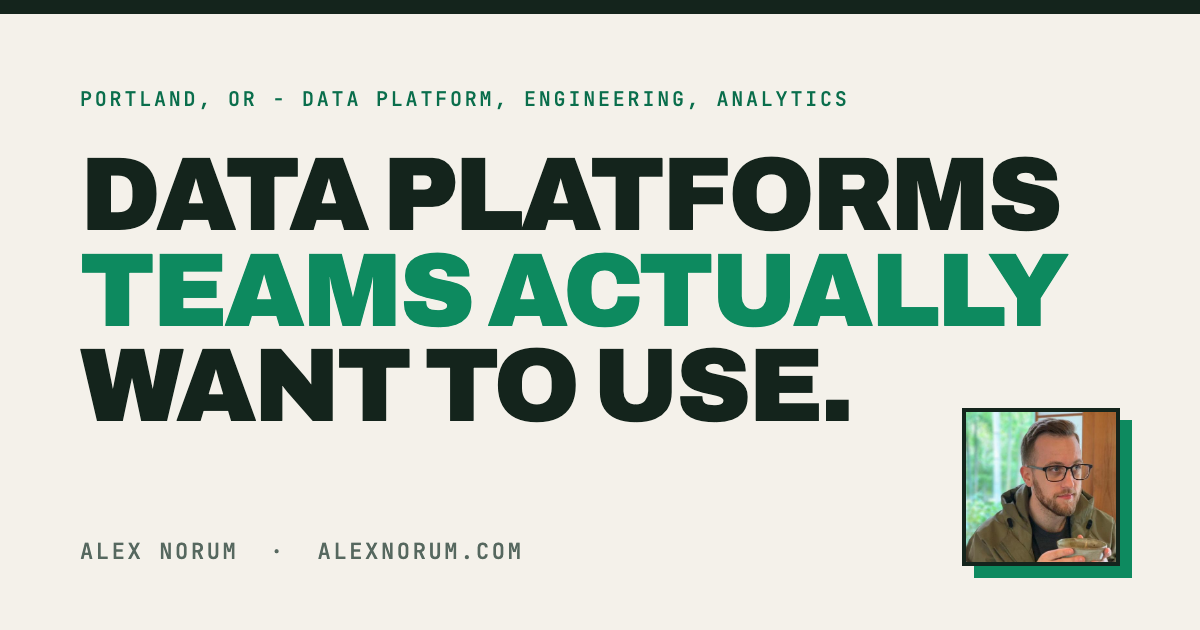
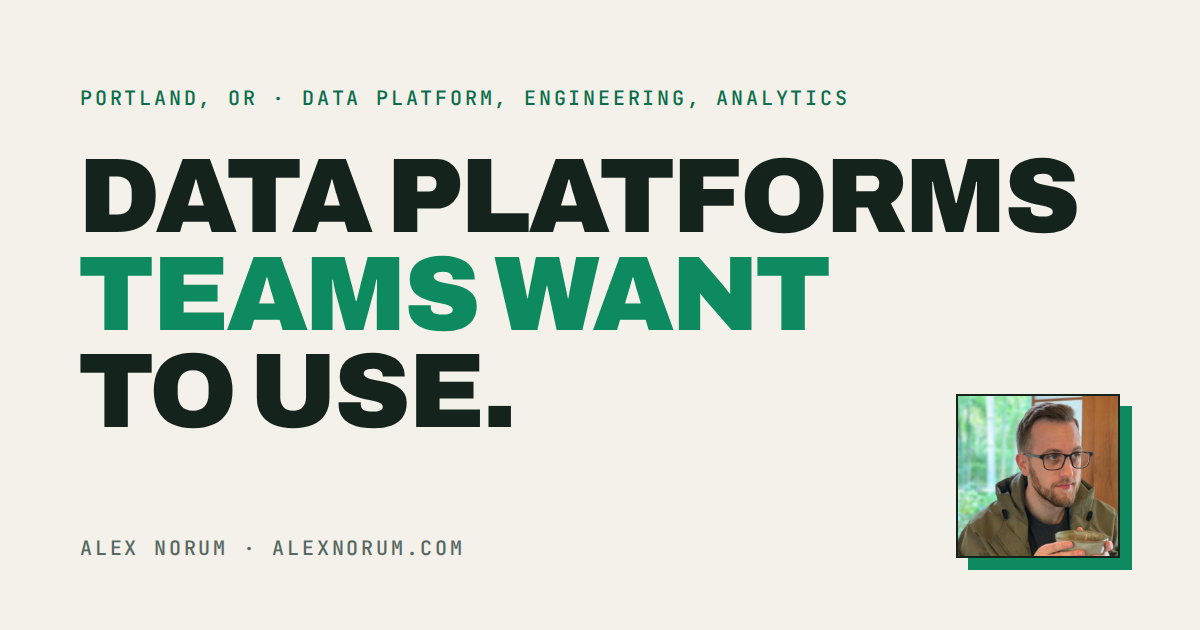
Swap in the pstack unslop skill, drop "actually" from the hero, regenerate og.png
Replace the installed skill with cursor/plugins pstack/skills/unslop and
apply its extra rules: no hyphen-as-dash separators (labels now use the
middot the site already uses elsewhere), no parentheses in prose, no
propping adverbs, active voice in the shopkeeper line, sentence-case
page titles.

Headline is now "Data platforms teams want to use." Add scripts/og.mjs
(npm run og) to render public/og.png from the headline with Playwright
so the social image stays in sync, and regenerate it.

Update the e2e section-header regex for the new separator.

Claude-Session: https://claude.ai/code/session_01CDjCevnmGBp8AV7wE8MfzH

diff --git a/src/data/projects.ts b/src/data/projects.ts
@@ -45,7 +45,7 @@ export const projects: Project[] = [
     name: 'Sightread',
     tagline: 'Sight-reading practice for piano with a MIDI keyboard.',
     description:
-      'Generates random but musically sensible sight-reading exercises for piano, from easy to brutal. Plug in a MIDI keyboard and it checks what you played, note by note.',
+      'Generates random sight-reading exercises for piano that still follow musical rules, from easy to brutal. Plug in a MIDI keyboard and it checks what you played, note by note.',
     highlights: [
       'Standard notation rendered in the browser',
       'Note-by-note feedback from a MIDI keyboard',
@@ -88,7 +88,7 @@ export const projects: Project[] = [
     name: 'Homelab',
     tagline: 'A place to break things.',
     description:
-      'A k3s cluster (nodes swagman-1 and swagman-2) plus a Raspberry Pi 5 running Home Assistant. Tailscale and Cloudflare tunnels for access, Strimzi Kafka and MinIO for the data side. It hosts PDX Train and whatever comes next.',
+      'A two-node k3s cluster, swagman-1 and swagman-2, plus a Raspberry Pi 5 running Home Assistant. Tailscale and Cloudflare tunnels for access, Strimzi Kafka and MinIO for the data side. It hosts PDX Train and whatever comes next.',
     highlights: [
       'GitOps deploys via ArgoCD, everything in version control',
       'Home Assistant with Zigbee and Lutron Caseta',

diff --git a/src/data/dialogs.ts b/src/data/dialogs.ts
@@ -52,7 +52,7 @@ export const dialogs: Record<string, DialogScript> = {
   ],
 
   'hall-board': [
-    { kind: 'line', text: 'Closed contracts, pinned neatly. Someone has finished a lot of quests.' },
+    { kind: 'line', text: 'Closed contracts, pinned in rows. Someone has finished a lot of quests.' },
     { kind: 'action', action: { type: 'openWindow', window: 'quests' } },
   ],
 
@@ -118,7 +118,7 @@ export const dialogs: Record<string, DialogScript> = {
     {
       kind: 'line',
       speaker: 'SHOPKEEPER',
-      text: 'Welcome, traveler. Everything here was forged after hours.',
+      text: 'Welcome, traveler. Alex forged everything here after hours.',
     },
     {
       kind: 'choice',

diff --git a/src/components/rpg/battle/EncounterSelect.tsx b/src/components/rpg/battle/EncounterSelect.tsx
@@ -49,7 +49,7 @@ export default function EncounterSelect({ wins, active, onPick }: EncounterSelec
     <div className="rpgb-window" data-testid="encounter-select">
       <div className="rpgb-select-title">BATTLE ARENA</div>
       <div className="rpgb-select-sub">
-        {allClear ? '★ ALL BOSSES DEFEATED - PLATFORM SECURED ★' : 'Choose your encounter. Beat a boss to unlock its chapter of the career.'}
+        {allClear ? '★ ALL BOSSES DEFEATED · PLATFORM SECURED ★' : 'Choose your encounter. Beat a boss to unlock its chapter of the career.'}
       </div>
       <div className="rpgb-encounters">
         {bosses.map((boss, i) => (

diff --git a/src/components/rpg/battle/ResultPanels.tsx b/src/components/rpg/battle/ResultPanels.tsx
@@ -25,7 +25,7 @@ export function VictoryPanel({ boss, onWin, onExit }: { boss: Boss; onWin: (boss
 
       {era && (
         <>
-          <div className="rpgb-quest-header">REWARD - REAL-WORLD ACHIEVEMENTS UNLOCKED:</div>
+          <div className="rpgb-quest-header">REWARD · REAL-WORLD ACHIEVEMENTS UNLOCKED:</div>
           <div className="rpgb-quest-role">{era.role} · {era.company} · {era.period}</div>
           <ul className="rpgb-achievements" data-testid="victory-achievements">
             {era.achievements.map((a) => (

diff --git a/src/components/rpg/windows/ShopWindow.tsx b/src/components/rpg/windows/ShopWindow.tsx
@@ -53,7 +53,7 @@ export default function ShopWindow({ onClose }: WindowContentProps) {
           </div>
           <p className="rpga-flavor">{p.rpg.itemDescription}</p>
           <div className="rpgw-divider" />
-          <div className="rpgw-label">APPRAISAL - REAL WORLD DATA</div>
+          <div className="rpgw-label">APPRAISAL · REAL WORLD DATA</div>
           <p className="rpgq-desc">{p.description}</p>
           {p.highlights.length > 0 && (
             <ul className="rpgq-rewards">

diff --git a/.claude/skills/unslop/SKILL.md b/.claude/skills/unslop/SKILL.md
@@ -1,9 +1,7 @@
 ---
 name: unslop
-description: >-
-  Remove AI writing patterns from prose. Use for docs, READMEs, blog posts, any non-code
-  text that should sound human. Triggers: "unslop", "humanize", "make this sound human",
-  "clean up this writing", "edit for voice", "de-AI this text".
+description: Cut AI tells from any writing. Must always apply.
+disable-model-invocation: true
 ---
 
 # Unslop
@@ -12,9 +10,9 @@ Edit text to remove AI patterns and add human voice.
 
 ## Process
 
-1. Scan for the patterns below
-2. Rewrite — preserve meaning, match intended tone
-3. Add soul (see next section)
+1. Scan for the patterns below.
+2. Rewrite. Preserve meaning, match intended tone.
+3. Add soul (see next section).
 4. Self-audit: "What makes this obviously AI generated?" Fix remaining tells.
 
 ## Adding soul
@@ -25,47 +23,59 @@ Removing patterns is half the job. Sterile, voiceless writing is just as obvious
 - **Vary rhythm.** Short sentences. Then longer ones that take their time. Mix it up.
 - **Acknowledge complexity.** "Impressive but also kind of unsettling" beats "impressive."
 - **Use "I" when it fits.** First person isn't unprofessional.
-- **Let some mess in.** Perfect structure feels algorithmic.
+- **Let some mess in.** Perfect structure looks machine-made.
 - **Be specific.** Not "this is concerning" but "there's something unsettling about agents churning away at 3am."
 
 ## Patterns to detect and fix
 
 ### Content
 
-1. **Significance inflation** — "pivotal moment", "testament to", "evolving landscape", "setting the stage for", "indelible mark", "deeply rooted". Cut puffery, state what happened.
-2. **Notability name-dropping** — listing media outlets without context. Pick one, say what was said.
-3. **Superficial -ing phrases** — "highlighting...", "ensuring...", "reflecting...", "showcasing...", "fostering...". Delete or expand with real sources.
-4. **Promotional language** — "nestled", "vibrant", "breathtaking", "groundbreaking", "renowned", "stunning", "must-visit". Use neutral descriptions.
-5. **Vague attributions** — "Experts believe", "Industry reports suggest", "Some critics argue". Name the source or delete.
-6. **Formulaic challenges** — "Despite challenges... continues to thrive." Replace with specific facts.
+1. **Puffery.** "pivotal moment", "testament to", "evolving landscape", "setting the stage for", "indelible mark", "deeply rooted". Cut puffery, state what happened.
+2. **Name-dropping.** Listing media outlets without context. Pick one, say what was said.
+3. **Superficial -ing phrases.** "highlighting...", "ensuring...", "reflecting...", "showcasing...", "fostering...". Delete or expand with real sources.
+4. **Promotional language.** "nestled", "vibrant", "breathtaking", "groundbreaking", "renowned", "stunning", "must-visit". Use neutral descriptions.
+5. **Vague attributions.** "Experts believe", "Industry reports suggest", "Some critics argue". Name the source or delete.
+6. **Formulaic challenges.** "Despite challenges... continues to thrive." Replace with specific facts.
 
 ### Language
 
-7. **AI vocabulary** — Additionally, crucial, delve, enduring, enhance, fostering, garner, interplay, intricate, landscape (abstract), pivotal, showcase, tapestry (abstract), testament, underscore, vibrant. Replace with plain words.
-8. **Copula avoidance** — "serves as", "stands as", "boasts", "features". Just say "is" or "has".
-9. **Negative parallelisms** — "It's not just X, it's Y." State the point directly.
-10. **Rule of three** — forcing ideas into groups of three. Use the natural number.
-11. **Synonym cycling** — protagonist/main character/central figure/hero in one paragraph. Pick one, repeat it.
-12. **False ranges** — "from X to Y" where X and Y aren't on a meaningful scale. List topics directly.
+7. **AI vocabulary.** Additionally, crucial, delve, enduring, enhance, fostering, garner, interplay, intricate, landscape (abstract), pivotal, showcase, tapestry (abstract), testament, underscore, vibrant. Replace with plain words.
+8. **Fancy ways to say "is".** "serves as", "stands as", "boasts", "features". Just say "is" or "has".
+9. **"Not just X, but Y."** State the point directly instead.
+10. **Rule of three.** Forcing ideas into groups of three. Use the natural number.
+11. **Synonym cycling.** Protagonist, main character, central figure, hero all in one paragraph. Pick one, repeat it.
+12. **False ranges.** "from X to Y" where X and Y aren't on a meaningful scale. List topics directly.
 
 ### Style
 
-13. **Em dash overuse** — avoid em dashes entirely. Use periods, commas, or parentheses. Em dashes are an AI tell.
-14. **Colon overuse** — colons are fine before a list or example. Not as mid-sentence connectors. "If you're coming from traditional automation: instead of registering event handlers, you describe conditions" adds nothing with the colon. Rewrite to let the point stand on its own without comparison framing. "Describing when the scheduler should fire works best as plain English." Same meaning, no crutch punctuation.
-15. **Boldface overuse** — don't bold every proper noun or acronym.
-16. **Inline-header lists** — "**Performance:** Performance improved..." Convert to prose.
-17. **Title case headings** — use sentence case.
-18. **Decorative emojis** — remove from headings and bullets.
-19. **Curly quotes** — replace with straight quotes.
+13. **Em dash overuse.** Avoid em dashes entirely. Use periods or commas only (no parentheses, no en dashes, no hyphen-as-dash substitutes). Em dashes are an AI tell, and reaching for parentheses instead just trades one tell for another. If a thought needs separation, end the sentence or use a comma.
+14. **Colon overuse.** Colons are fine before a list or example. Not as mid-sentence connectors. "If you're coming from traditional automation: instead of registering event handlers, you describe conditions" adds nothing with the colon. Rewrite to let the point stand on its own without comparison framing. "Describing when the scheduler should fire works best as plain English." Same meaning, no crutch punctuation.
+15. **Boldface overuse.** Don't bold every proper noun or acronym.
+16. **Inline-header lists.** The tell is a bold label and colon that restates the line: "**Performance:** Performance improved...". Convert those to prose. A bold lead-in that ends in a period, names the item, and is followed by genuinely new detail ("**Schema in TypeScript.** Tables live in one file.") is fine, not a tell.
+17. **Title case headings.** Use sentence case.
+18. **Decorative emojis.** Remove from headings and bullets.
+19. **Curly quotes.** Replace with straight quotes.
 
 ### Communication artifacts
 
-20. **Chatbot phrases** — "I hope this helps!", "Let me know if...", "Of course!", "Certainly!" Remove.
-21. **Cutoff disclaimers** — "While specific details are limited..." Find sources or remove.
-22. **Sycophantic tone** — "Great question! You're absolutely right!" Respond directly.
+20. **Chatbot phrases.** "I hope this helps!", "Let me know if...", "Of course!", "Certainly!", "Found the smoking gun!" Remove.
+21. **Cutoff disclaimers.** "While specific details are limited..." Find sources or remove.
+22. **Sycophantic tone.** "Great question! You're absolutely right!" Respond directly.
 
 ### Filler
 
-23. **Filler phrases** — "In order to" → "To". "Due to the fact that" → "Because". "It is important to note that" → delete.
-24. **Excessive hedging** — "could potentially possibly be argued that it might" → "may".
-25. **Generic conclusions** — "The future looks bright." State specific plans or facts.
+23. **Filler phrases.** "In order to" becomes "To". "Due to the fact that" becomes "Because". "It is important to note that" gets deleted.
+24. **Excessive hedging.** "could potentially possibly be argued that it might" becomes "may".
+25. **Generic conclusions.** "The future looks bright." State specific plans or facts.
+
+### Jargon
+
+26. **Abstract metaphor nouns.** Substrate, wedge, vector, locus, vantage, nexus, primitive (as noun), harness (as metaphor), surface (as in "API surface"), bedrock, scaffolding (as metaphor), modality, paradigm, gold-plating, ratchet (as metaphor), evacuate (for moving code), endgame, north star, flywheel. These read as technical but usually have a plainer concrete word. "Substrate" becomes "base". "Wedge in" becomes "add". "Vector" becomes "way" or "method". "Gold-plating" becomes "more than the job needs". "Ratchet" becomes the mechanism's real name or "a limit that only tightens". "Evacuate" becomes "move out". "Endgame" becomes "the last phase". Pick the concrete word.
+
+### Plain speech
+
+27. **Say what it does, not how it feels.** "the database stays close at hand", "SQL you can read", "types that follow your schema" name a feeling. The fix names the mechanism or a number: "`.toSQL()` returns the exact string sent to the database", "a column rename fails the build". Ask what the sentence tells the reader to do or know, then write that. If you can't restate it as a concrete instruction, fact, or number, cut it. One more check: if the sentence could appear unchanged in another project's docs, it says nothing about this one. Cut it.
+28. **Shorten or split dense sentences.** If the reader has to backtrack to parse a sentence, break it in two or drop clauses. One idea per sentence.
+29. **Active voice.** Prefer it. Catch "is/are/was/were + past participle" and name the actor: "queries are validated" becomes "the compiler validates queries", "the file is parsed by the loader" becomes "the loader parses the file". Passive is fine only when the actor is unknown or genuinely doesn't matter.
+30. **Cut adverbs, or use a stronger verb.** "runs quickly" becomes "is fast" or the number. "significantly improves" becomes the measured delta. An adverb propping up a weak verb means the verb is wrong.
+31. **Prefer the plain word.** "utilize" becomes "use", "leverage" becomes "use", "facilitate" becomes "help", "numerous" becomes "many", "in the event that" becomes "if". The fancier synonym is rarely clearer.

diff --git a/README.md b/README.md
@@ -28,3 +28,11 @@ npm run build && npm run e2e   # headless browser checks against dist/ (needs `n
 
 The end-to-end suite in `tests/e2e.mjs` walks both themes: the editorial page (headings, links, metadata, map) and the RPG (every interior, dialogs, windows, battle handoff, touch controls).
 It runs in CI before every deploy.
+
+## Social preview
+
+`npm run og` re-renders `public/og.png` from the headline in `scripts/og.mjs`. Edit the text there when the hero changes.
+
+## Copy
+
+The unslop skill in `.claude/skills/unslop` is the house style for all site copy. Run it over any text change.
